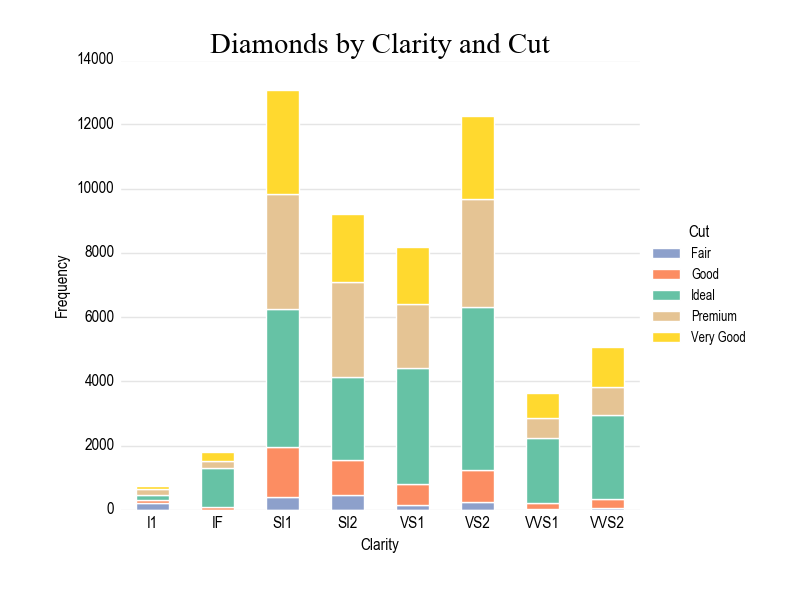
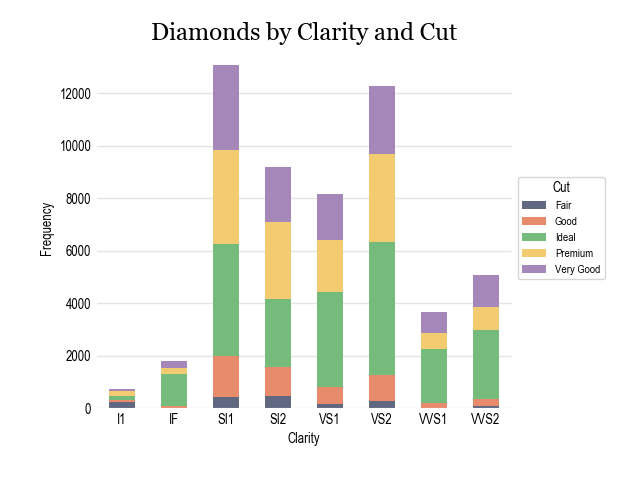
Jira Ticket VIZ-49: update the styles to the typefaces and colors defined in the brand guidelines

diff --git a/mmviz.py b/mmviz.py
@@ -4,12 +4,18 @@ import matplotlib.pyplot as plt
 from cycler import cycler
 from matplotlib.font_manager import FontProperties
 
-MMVIZ_BRAND_FONT_SERIF = ["Times", "Times New Roman", "serif"]
-MMVIZ_BRAND_FONT_SANS_SERIF = ["Univers 47 Condensed Light", "Univers 57 Condensed",
-                               "Arial Narrow", "Arial", "sans-serif"]
+#MMVIZ_BRAND_FONT_SERIF = ["Times", "Times New Roman", "serif"]
+MMVIZ_BRAND_FONT_SERIF = ["FreightText", "Georgia", "Times New Roman", "Times", "serif"]
+#MMVIZ_BRAND_FONT_SANS_SERIF = ["Univers 47 Condensed Light", "Univers 57 Condensed",
+#                               "Arial Narrow", "Arial", "sans-serif"]
+MMVIZ_BRAND_FONT_SANS_SERIF = ["BrandonText", "Helvetica", "Arial", "sans-serif"]
 
-MMVIZ_COLOR_PALETTE_QUAL_DARK = ["#7570b3", "#d95f02", "#1b9e77", "#a6761d", "#e6ab02", "#666666", "#e7298a", "#66a61e"]
-MMVIZ_COLOR_PALETTE_QUAL_LIGHT = ["#8da0cb", "#fc8d62", "#66c2a5", "#e5c494", "#ffd92f", "#b3b3b3", "#e78ac3", "#a6d854"]
+#MMVIZ_COLOR_PALETTE_QUAL_DARK = ["#7570b3", "#d95f02", "#1b9e77", "#a6761d", "#e6ab02", "#666666", "#e7298a", "#66a61e"]
+MMVIZ_COLOR_PALETTE_QUAL_DARK = ["#232E53", "#DF6035", "#42A44C", "#EFB83B", "#855AA1", "#69A5AC", "#D7313E", "#318FBF"]
+
+#MMVIZ_COLOR_PALETTE_QUAL_LIGHT = ["#8da0cb", "#fc8d62", "#66c2a5", "#e5c494", "#ffd92f", "#b3b3b3", "#e78ac3", "#a6d854"]
+MMVIZ_COLOR_PALETTE_QUAL_LIGHT = ["#5F6781", "#E78B6C", "#75BC7C", "#F3CB70", "#A687BA", "#94BFC2", "#E16972", "#69ADD0"]
+
 MMVIZ_COLOR_PALETTE_QUAL_ALT_DARK = MMVIZ_COLOR_PALETTE_QUAL_DARK + MMVIZ_COLOR_PALETTE_QUAL_LIGHT
 MMVIZ_COLOR_PALETTE_QUAL_ALT_LIGHT = MMVIZ_COLOR_PALETTE_QUAL_LIGHT + MMVIZ_COLOR_PALETTE_QUAL_DARK
 
@@ -18,6 +24,14 @@ MMVIZ_COLOR_PALETTE_SEQ  = ["#fff7fb", "#ece7f2", "#d0d1e6", "#a6bddb", "#74a9cf
 
 MMVIZ_COLOR_PALETTE_DIV = ["#a50026", "#d73027", "#f46d43", "#fdae61", "#fee090", "#ffffbf",
                            "#e0f3f8", "#abd9e9", "#74add1", "#4575b4", "#313695"]
+#new variables added
+MMVIZ_COLOR_NEUTRAL_LIGHT = "#E8E8E7"
+MMVIZ_COLOR_NEUTRAL_MID = "#ACABA8"
+MMVIZ_COLOR_NEUTRAL_DARK = "#555555"
+MMVIZ_COLOR_BLUE_LIGHT = "#C1C9D5"
+MMVIZ_COLOR_BLUE_DARK = "#5C6B7E"
+
+
 
 TITLE_FONT_PROPERTIES = FontProperties()
 TITLE_FONT_PROPERTIES.set_family(MMVIZ_BRAND_FONT_SERIF)
